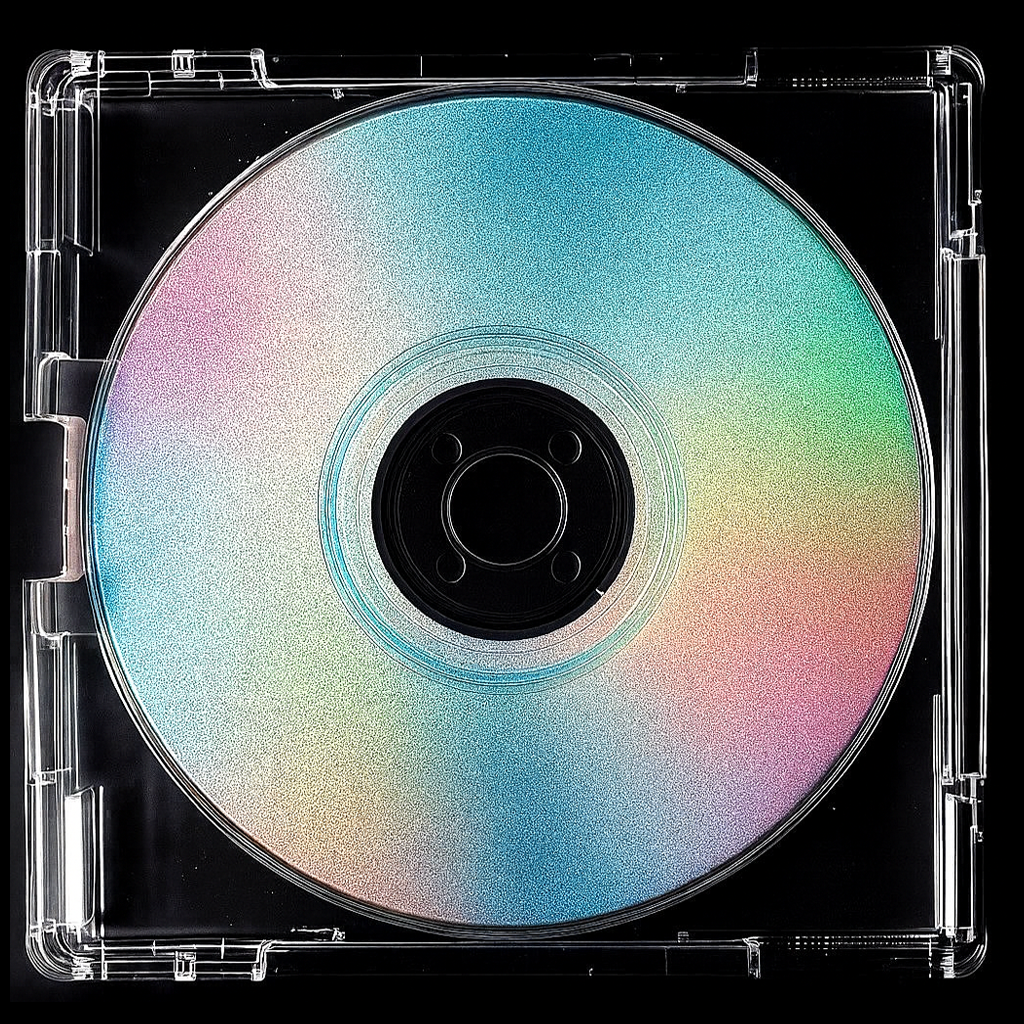
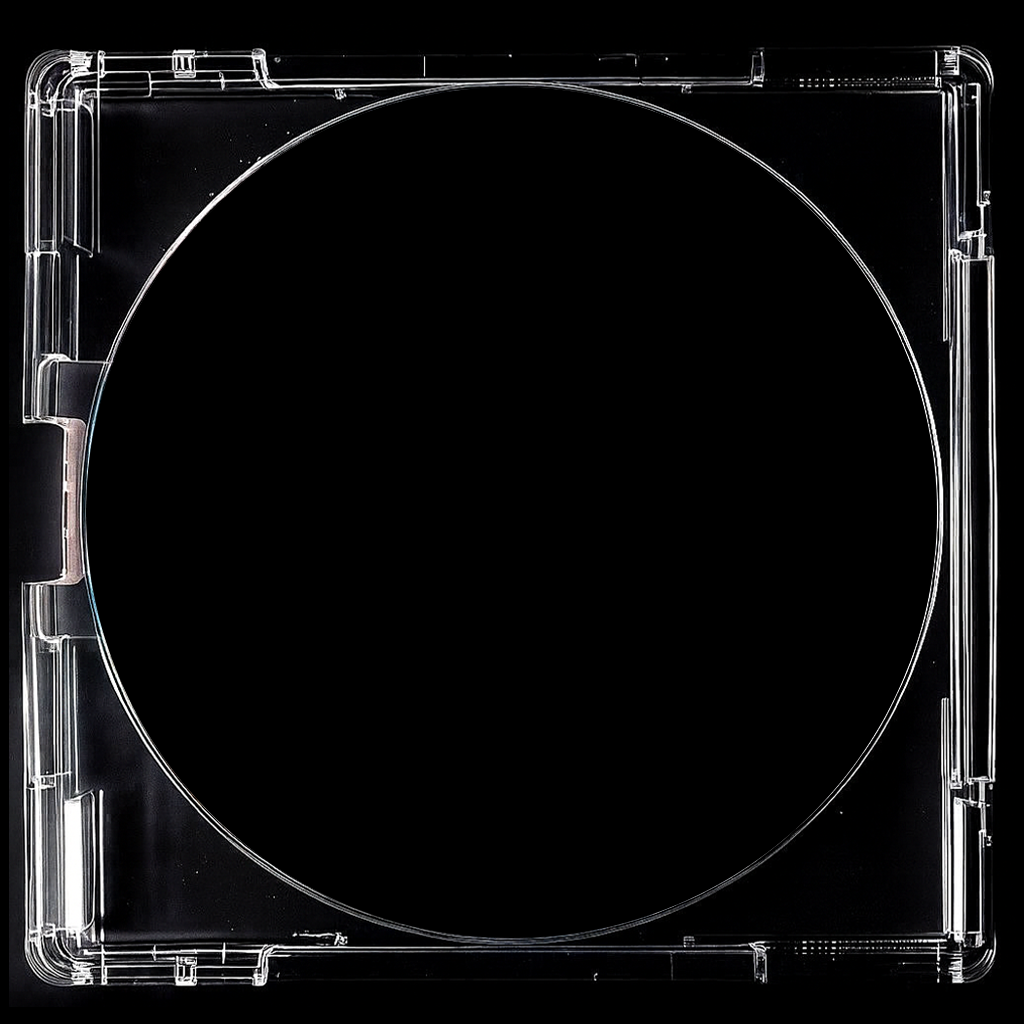
Replace cover and disc images

diff --git a/index.html b/index.html
@@ -37,7 +37,7 @@
             left:0;
             width:100%;
             height:100%;
-            background:rgba(0,0,0,0.9);
+            background:rgba(0,0,0,0.8);
             z-index:1;
             pointer-events:none;
         }
